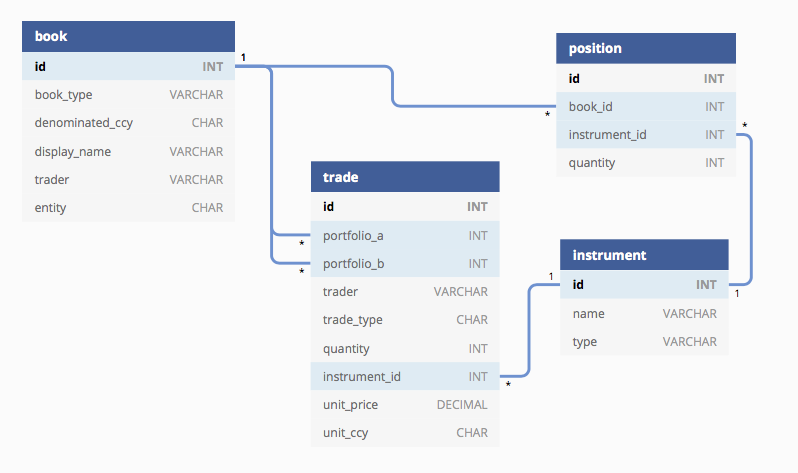
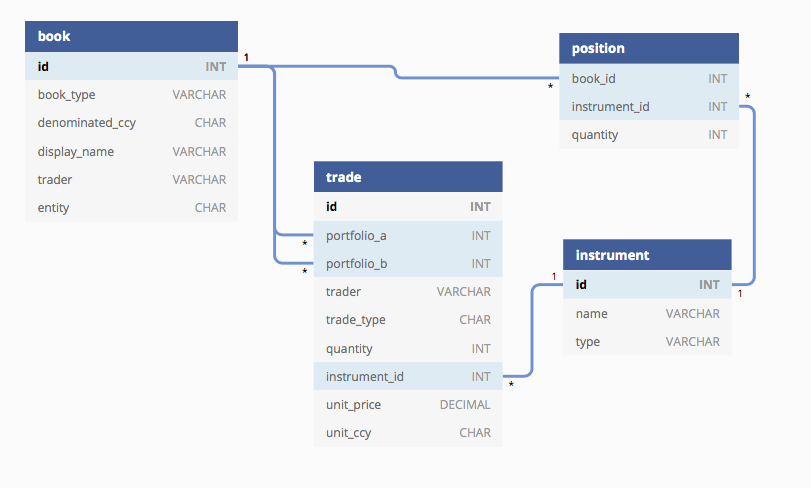
MISC: near final edits to doco

diff --git a/SQL.md b/SQL.md
@@ -1,5 +1,5 @@
 # Overview 
-This article will look at the relational database schema for a trading application and some example queries that could be run for different use cases. A simple way to run and test queries locally using an embedded in-memory database is presented, and we finish with a quick look at alternatives to hand crafted sql through the use of Object Relational Mapping (ORM) .    
+This article will look at the relational database schema for a trading application and some example queries that could be run for different use cases. A simple way to run and test queries locally using an embedded in-memory database is presented, and we finish with a quick look at alternatives to hand crafted sql through the use of Object Relational Mapping (ORM).    
 
 # Domain Model
 From the previous article, we defined three key parts to the domain:
@@ -7,13 +7,13 @@ From the previous article, we defined three key parts to the domain:
 * _Trade_ - modifies positions in two books
 * _Position_ - total holding of a particular type of instrument in a book
 
-We should add to that an _Instrument_ which is the thing been traded (e.g. stock in Tesla (TSLA)) 
+We should add to that an _Instrument_ which is the thing been traded 
 
 
 # Schema 
 Lets define the minimal schema to demonstrate what happens when a trade is booked.
 
-The `book` table will have a type (e.g. profit centre, customer), denominated currency, name of trader (likely the desk head in charge, can be null if its a customer book), and legal entity - a distinct ring-fenced part of the business (e.g. US versus EMEA). Once set up, this data wont generally change that often.
+The `book` table will have a type (e.g. trading book with a profit centre versus customer book), denominated currency, name of trader (likely the desk head in charge, can be null if its a customer book), and legal entity - a distinct ring-fenced part of the business often based on geography with different entities for US , EMEA and APAC but may be broken down further. Once set up, this data wont generally change that often.
 ```sql
 CREATE TABLE book (
   id INT AUTO_INCREMENT  PRIMARY KEY,
@@ -26,7 +26,7 @@ CREATE TABLE book (
 );
 ```
 
-An `instrument` is the thing been traded, it has a name, type plus a bunch of attributes that will be used for pricing purposes; there will also be industry standard identifiers for the security (e.g. ISIN, SEDOL)
+An `instrument` is the thing been traded, it has a human readable name together with industry standard identifiers (e.g. ISIN, SEDOL), plus a bunch of attributes that will be used for pricing purposes; there will also be 
 ```sql
 CREATE TABLE instrument (
   id INT AUTO_INCREMENT  PRIMARY KEY,
@@ -36,8 +36,7 @@ CREATE TABLE instrument (
 );
 ```
 
-The `trade` table records the two parties involved in the trade (via a reference to a book) and the trader themselves, the direction of the trade - whether it was a buy (`B`) or sell (`S`), the quantity traded, and the details on the instrument including its price and base currency. 
-
+The `trade` table records the two parties involved in the trade via a reference to the trading and client book (we've called them `portfolio_a`  and `portfolio_a`) and the trader, the direction of the trade - whether it was a buy (`B`) or sell (`S`), the quantity traded, and the details on the instrument including its price and base currency. We've not shown it here, but settlement details will also be linked to the trade.
 ```sql
 CREATE TABLE trade (
   id INT AUTO_INCREMENT  PRIMARY KEY,
@@ -56,10 +55,11 @@ CREATE TABLE trade (
 ```
 (other possible names for this table - `order` or `transaction`?)
 
+A little trick can be used when inserting data into the `trade` table -  if its a sell the `quantity` is negative, otherwise positive - this avoids having _case_ like statements in your sql but requires any business logic (in sql, source code, or elsewhere) to be aware of this convention.    
+
 The position table holds the _total_ holdings of an instrument in a book at a particular point in time. It could be tempting to use the trade table to derive the same aggregate view of the open position quantity, in practice its a bit more efficient to store position separately and avoid the trade table queries (even with well thought out indexes). Bear in mind this introduces the risk the trade and position tables don't match if an edit is done in one table but not the other. It should, however, always be possible to regenerate the position table from the trade table.      
 ```sql
 CREATE TABLE position (
-  id INT AUTO_INCREMENT PRIMARY KEY,
   book_id INT NOT NULL,
   instrument_id  INT NOT NULL,
   quantity INT NOT NULL,
@@ -67,6 +67,7 @@ CREATE TABLE position (
   FOREIGN KEY (instrument_id) REFERENCES instrument(id)
 );
 ```
+(a composite primary key made up of `book_id` and `instrument_id` has been chosen for this table)
 
 This in the final schema and relationships:
 
@@ -79,8 +80,8 @@ This in the final schema and relationships:
 Lets continue the example from the first article where we had this trade:
 ```
 Trade Details {
-  Portfolio1: "MKEIT01", 
-  Portfolio2: "Third Rock Investments",
+  Portfolio_a: "US Eq Flow", 
+  Portfolio_b: "Third Rock Investments",
   Trader: "Sammy Bruce",
   Trade Type: "Sell",
   Quantity: 10
@@ -92,40 +93,32 @@ Trade Details {
 ```
 Lets assume ops have set up our books and the product team have set up the TSLA security (our entity is made up, the denomination is USD so it would probably be a US business line)
 
-`select * from book where entity = 'GRUS';`
+`select * from book where entity where DISPLAY_NAME in ('US Eq Flow', 'Third Rock Investments')`
 
 |ID |BOOK_TYPE  	|DENOMINATED  	|DISPLAY_NAME  	        |TRADER  	 |ENTITY  |
 |---|---------------|---------------|-----------------------|------------|--------|
-|5	|Profit Centre	|USD	        |MKEIT01	            |Sammy Bruce |EUCE    |
-|6	|Client Book	|USD	        |Third Rock Investments	|null	     |EUCE    |
+|5	|Profit Centre	|USD	        |US Eq Flow	            |Sammy Bruce |USTRD   |
+|6	|Client Book	|USD	        |Third Rock Investments	|null	     |USTRD   |
+(make a mental note of IDs here as used in upcoming sql)
 
 `select * from instrument where NAME = 'TSLA'`
 
 |ID|NAME|
 |---|---|
-|5|TSLA|  
- (yes, light on detail)
+|8|TSLA|  
+ (yes, light on detail, this is all we need for the example)
 
-From this trade we'd expect one new row in the `trade` table as per the above trade details with an insert to capture:
-```
-Portfolio1: "MKEIT01", 
-Portfolio2: "Third Rock Investments",
-Trader: "Sammy Bruce",
-Trade Type: "Sell",
-Quantity: 10
-Quantity Unit: "TSLA"
-Unit Price: 540.10
-Unit Currency: "USD"
-``` 
+From this trade we'd expect one new row to be inserted into the `trade` table as per the above trade details
 sql (portfolio id's are from the book table):
 ```sql
 INSERT INTO trade (portfolio_a, portfolio_b, trader, trade_type, quantity, instrument_id, unit_price, unit_ccy) VALUES
-  (5, 6, 'Sammy Bruce', 'B', 10, 5, 540.10, 'USD')
+  (5, 6, 'Sammy Bruce', 'B', -10, 8, 540.10, 'USD')
 ``` 
+(its a sell so we use that trick and make quantity -ve)
 
-A trade modifies positions in two books, one book goes up by the quantity bought/sold, the other down by the same amount - the net effect across both books should always be zero. We' expect the following increments (decrements) on the `position` table for our trade: 
+A trade modifies positions in two books, one book goes up by the quantity bought/sold, the other down by the same amount - the net effect across both books should always be zero. We'd expect the following increments (decrements) on the `position` table for the trade: 
 ```
-Book Name: MKEIT01
+Book Name: US Eq Flow
 Quantity: -10
 Instrument: TSLA
 ```
@@ -140,15 +133,15 @@ sql:
 update position 
 set quantity      = quantity - 10 
 where book_id     = 5 // risk book 
-and instrument_id = 5 // TSLA
+and instrument_id = 8 // TSLA
 ```
 ```sql
 update position 
 set quantity      = quantity + 10 
 where book_id     = 6 // client book 
-and instrument_id = 5 // TSLA
+and instrument_id = 8 // TSLA
 ```
-What just happened? Running the above query blew away what our position was previously, we can no longer go back in time, which is a big problem given the many use cases in a trading and risk system that require data as-of a given business date. How do we fix this? The next section explains ...   
+What just happened? Running the above update query blew away what our position was previously, we can no longer go back in time, which is a big problem given the many use cases in a trading and risk system that require data as-of a given business date. How do we fix this? The next section explains ...   
 
 ## A note on dates
 You'll notice for simplicity none of the tables contain dates - in reality, they will, and its worth commenting on _bi-temporal chaining_ whereby all changes to a database are tracked along two dimensions:
@@ -162,20 +155,19 @@ Its implemented through the addition of four columns:
 * `FROM_Z` and `THRU_Z` to track the validity of the row along the business-time dimension
 *  `IN_Z` and`OUT_Z` to track the validity of the row along the processing-time dimension
 
-Coming back to the position example, lets look at how to increment position by 10 on client book - assume we start with a position of 100 for given book/instrument:  
+Coming back to the position example, lets look at how to increment position by 10 on client book whilst maintaining history - assume we start with a position of 100 for given book/instrument:  
 
 |BOOK_ID  |INSTRUMENT_ID  |QUANTITY   |FROM_Z|THRU_Z  |IN_Z  |OUT_Z   |
 |--------|------|--------|------|--------|------|--------|
 |6|5|100|Apr 20|Infinity|Apr 20|Infinity|
 
-`IN_Z` is Apr 20 which tells us trade executed on this date, `OUT_Z` Infinity which tells us this row is latest state of the position 
+`IN_Z` is Apr 20 which tells us trade executed was on this date, `OUT_Z` is 'Infinity' which tells us this row is latest state of the position; Infinity is saying it's an open record, there's no 'to' date, ot can be represented in the database table through the use of a 'magic date' (e.g. year might be set to 9999).  
 
-First invalidate (aka chain out) the old row by setting `OUT_Z` to the current business date (pretend today is Apr 23): 
+First invalidate (aka 'chain out') the old row by setting `OUT_Z` to the current business date (pretend today is Apr 23): 
 
 |BOOK_ID  |INSTRUMENT_ID  |QUANTITY   |FROM_Z|THRU_Z  |IN_Z  |OUT_Z   |
 |--------|------|--------|------|--------|------|--------|
 |6|5|100|Apr 20|Infinity|Apr 20|Apr 23|
-
 
 Next insert a new row with previous position + 10, 
 
@@ -196,62 +188,72 @@ and FROM_Z <= '2020-04-23 00:00:00.000'
 and THRU_Z > '2020-04-23 00:00:00.000' 
 and OUT_Z = '9999-12-01 23:59:00.000'
 ```
-To get position as-of a point in the past, lets say before the increment came in (Apr 21): 
+To get position as-of a point in the past, lets say the day before before the increment came in (Apr 22): 
 ```sql
 select * from position 
 where book_id = 6
 and instrument_id = 5 
-and FROM_Z <= '2020-04-21 00:00:00.000' 
-and THRU_Z > '2020-04-21 00:00:00.000'
-and IN_Z <= '2020-04-21 00:00:00.000' 
-and OUT_Z > '2020-04-21 00:00:00.000'
+and FROM_Z <= '2020-04-22 00:00:00.000' 
+and THRU_Z > '2020-04-22 00:00:00.000'
+and IN_Z <= '2020-04-22 00:00:00.000' 
+and OUT_Z > '2020-04-22 00:00:00.000'
 ```
 
 Check out this very good [goldmansachs](https://goldmansachs.github.io/reladomo-kata/reladomo-tour-docs/tour-guide.html#N408B5) tutorial for more details (including how `THRU_Z` is used to capture same business day changes).   
 
+## A note on currencies
+We're dealing with monetary amounts in the `trade.unit_price` field with a currency defined in `trade.unit_ccy`. As such, we need to be very careful not to blindly sum up values that either directly or indirectly reference `unit_price` - it makes no sense adding 100 USD and 50 GBP to get to 150 what? If we need to aggregate values that reference `unit_price` then everything will need converting to the _same_ currency through the use of an _fx rate_ and a bit of simple fx conversion logic. 
+
+What fx rate to use? The currency we're converting _from_ is known (`trade.unit_ccy`), but what currency do we convert _to_? The one defined on the `book.denomicated` (currency) is a good indicator of what numbers should be reported in, although it should be easy to specify a target currency and do the conversion on-the-fly.
+
+A rate would be loaded for given business date/time and given currency pair, and may have been sourced from an external market data provider or contributed internally, perhaps by the fx desk.
+  
+In the proceeding examples for simplicity we dont apply fx conversion (and we get away with since all trades are in USD)
+
 # Sample queries
 In all cases portfolio_a is trader book and portfolio_b is client book
 
-TODO; put in some for above.
-
 ## Find the current position of the firm 
-How long and short it is on each of the securities it trades. The position table makes this simple, just need to decide whether to filter out zero positions 
-```
+Determine how long and short the firm is on each of the securities it trades - the `position` table makes this simple with a join on the `trade` table to only select firm side positions associated with a risk book: 
+ ```
 SELECT i.name          AS instrument, 
-       SUM(t.quantity) AS position 
-FROM   trade t, 
-       position p, 
-       instrument i
-WHERE  t.instrument_id = p.instrument_id 
-AND    t.portfolio_a = p.book_id
-AND    p.instrument_id = i.id     
+       SUM(p.quantity) AS position 
+FROM   position p, 
+       instrument i, 
+       book b
+WHERE  p.instrument_id = i.id     
+and    b.id = p.book_id
+and    b.book_type = 'Profit Centre' // just pull in risk books
 GROUP  BY ( instrument ) 
-HAVING position != 0 
-ORDER  BY position DESC 
+HAVING position != 0
+ORDER  BY position DESC  
 ```
+Note we group across book/instrument, summing up the quantities to get overall per instrument rather than breakout by book, and we chose to filter out flat (zero) positions
 
 ## Find the ten securities to which the firm has the greatest exposure (either long or short)
-Lets take exposure here to mean amount, we dont apply fx conversion,
-we'll get away with it for test data as everything in GBP, otherwise we've be mixing up ccy's. One way we could implement this is to have a FX table to load fx rate for given ccy pair and date.
+_Exposure_ is a general term that can refer to the total market value of a position, the total amount of possible risk at any given point, or the portion of a fund invested in a particular market or asset.
+
+We'll consider _financial exposure_ which is limited to the amount spent on opening a position – e.g. the most that can be lost from buying shares is the amount paid for them in the 1st place - and we capture this in the `trade.unit_price`
+
+Most of what we need here is in the `trade` table with a join on `instrument` to get a human readable name: 
+ 
 ```
 SELECT TOP 10 i.name                         AS instrument, 
        SUM(t.quantity * t.unit_price)        AS exposure 
 FROM   trade t, 
-       position p, 
        instrument i 
-WHERE  t.instrument_id = p.instrument_id 
-AND    t.portfolio_a = p.book_id
-AND    p.instrument_id = i.id 
+WHERE  t.instrument_id = i.id 
 GROUP  BY ( i.name ) 
-ORDER  BY ABS(SUM(t.quantity * t.unit_price)) DESC 
+ORDER  BY ABS(SUM(t.quantity * t.unit_price)) DESC  
 ```
+Note use of absolute (`ABS`) function to pull in top 10 regardless of the sign. 
 
 ## Query those tables to find the trader with the highest aggregate exposure among their top five securities.
 This is a non trivial query that makes use of [ROW_NUMBER](https://www.sqltutorial.org/sql-window-functions/sql-row_number/) and [PARTITION](https://www.sqltutorial.org/sql-window-functions/sql-partition-by/): to find the nth highest value per group
  
-* the PARTITION BY clause distributes the trades by (trading) portfolio
-* the ORDER BY clause sorts the trades in each portfolio by exposure
-* the ROW_NUMBER() assigns each row a sequential integer number, it resets the number when the portfolio changes
+* the `PARTITION BY` clause distributes the trades by (trading) portfolio
+* the `ORDER BY` clause sorts the trades in each portfolio by exposure
+* the `ROW_NUMBER()` assigns each row a sequential integer number, it resets the number when the portfolio changes
 
 ```
 SELECT TOP 1 b.trader, 
@@ -269,40 +271,41 @@ FROM   (SELECT portfolio_a                                   AS trader,
         ORDER  BY trader, 
                   rank) aggregate, 
        book b 
-WHERE  aggregate.rank <= 5 
+WHERE  aggregate.rank <= 5 // top 5 securities
 AND    b.id = aggregate.trader 
 GROUP  BY aggregate.trader 
 ORDER  BY exposure DESC 
-```
+``` 
+Note we've taken _trader_ to refer to the desk head associated with a book rather than the one involved in a single deal (and recorded on the `trade` table).
 
 # Using embedded H2 database inside browser to run sql queries
-A simple [Spring Boot](https://spring.io/projects/spring-boot) app using an embedded in memory [H2 database](https://www.h2database.com/html/main.html) has been created to test the schema and queries (based on this great [baeldung tutorial](https://www.baeldung.com/spring-boot-h2-database))
+A simple [Spring Boot](https://spring.io/projects/spring-boot) app using an embedded in memory [H2 database](https://www.h2database.com/html/main.html) created to test the schema and queries (based on this great [baeldung tutorial](https://www.baeldung.com/spring-boot-h2-database))
 
 To use, check out [tradebook](https://github.com/stehrn/tradebook) GitHub repo and: 
 
    * Run [SpringBootH2Application](src/main/java/com/stehnik/tradebook/SpringBootH2Application.java) 
    * Go to http://localhost:8080/h2-console (check _JDBC URL_ is `jdbc:h2:mem:mydb`, and password intentionally left blank)
 
-You should see this:
+You should see something like this:
 
-TODO
+![H2](img/h2.png)
 
-The output from above was obtained from running queries in the browser.
+You can run any of the sql defined above in the browser.
 
 # Adding a Java ORM layer
-So how do we use what we've looked at so far in a Java application? We started with a database schema and  could use [JDBC](https://docs.oracle.com/javase/tutorial/jdbc/basics/index.html) to execute the sql defined above, and this may be fine for some teams who have decent sql experience and are happy with the tight coupling to the persistence layer.  
+So how do we use what we've looked at so far in a Java application? We started with a database schema and  could use [JDBC](https://docs.oracle.com/javase/tutorial/jdbc/basics/index.html) to execute sql, and this may be fine for some teams who have decent sql experience and are happy with the tight coupling to the persistence layer.  
 
 Many teams try and avoid hand crafting and maintaining sql queries for specific database vendors, relying instead on Object Relational Mapping (ORM). This lets us deal in Java objects (typically POJOs), database specifics are abstracted away, and different data providers can be plugged in with a bit of configuration, no sql needs to be written.   
  
 There are lots of ORM libraries out there, we'll look at [jOOQ Object Oriented Querying (jooq)](https://www.jooq.org) which generates Java objects from an existing table schema and will let us build type-safe SQL queries through a fluent API.
  
-ORMs let you do it the other way round as well - if you have a set of Java objects with relevant annotations a database schema can be auto-generate.    
+ORMs let you do it the other way round as well - if you have a set of Java objects with relevant annotations a database schema can be auto-generated.    
  
-The maven project [pom](pom.xml) contains a profile to auto-generate Java source using jooq - it  points to the schema file and the package name and directory for generated source. To create source run:
+The maven project [pom](pom.xml) contains a profile to auto-generate Java source using jooq - it  points to the schema file and the package name and directory for the generated source to be written to. To create source run:
 ```
 mvn generate-sources -P jooq
 ```
-This will create a bit of framework code, Data Access Objects (DAOs), and simple POJOs for book, instrument, position, and trade, e.g.:
+This will create a bit of framework code, Data Access Objects (DAOs), and simple POJOs for book, instrument, trade, and position e.g.:
 ```java
 /**
  * This class is generated by jOOQ.
@@ -340,4 +343,10 @@ List<Position> positions = positionDao.findAll();
 (see [TradebookController](src/main/java/com/stehnik/tradebook/TradebookController.java))
 
 # Recap
-TODO 
+We've covered the domain model and sql schema for a simple trade application. If we wanted to extend this to pricing then more data would be required (an idea for a future article?). Some important factors such as fx conversion of monetary amounts and bi-temporal chaining to maintain trade history have also been discussed.  
+
+Its worth mentioning one of the alternatives to a relational databases - noSQL. There's no schema as such, which can help with data and applications that are evolving; and its easy to scale horizontally - often run as a distributed cluster - at the cost of giving up the 'C' of ACID (Consistency) and relying instead on _eventual_ consistency. You'd have to think hard about using noSQL for a trading application that can have complex queries and reporting and high transaction rates, where not adhering to ACID properties could mean losing a lot of money.  
+
+In many cases teams wont hand craft sql but rather delegate things to an ORM, although an understanding of the underlying sql will help when looking into bugs or dealing with support or non-functional issues such as slow performance.  
+
+Thanks for reading!
